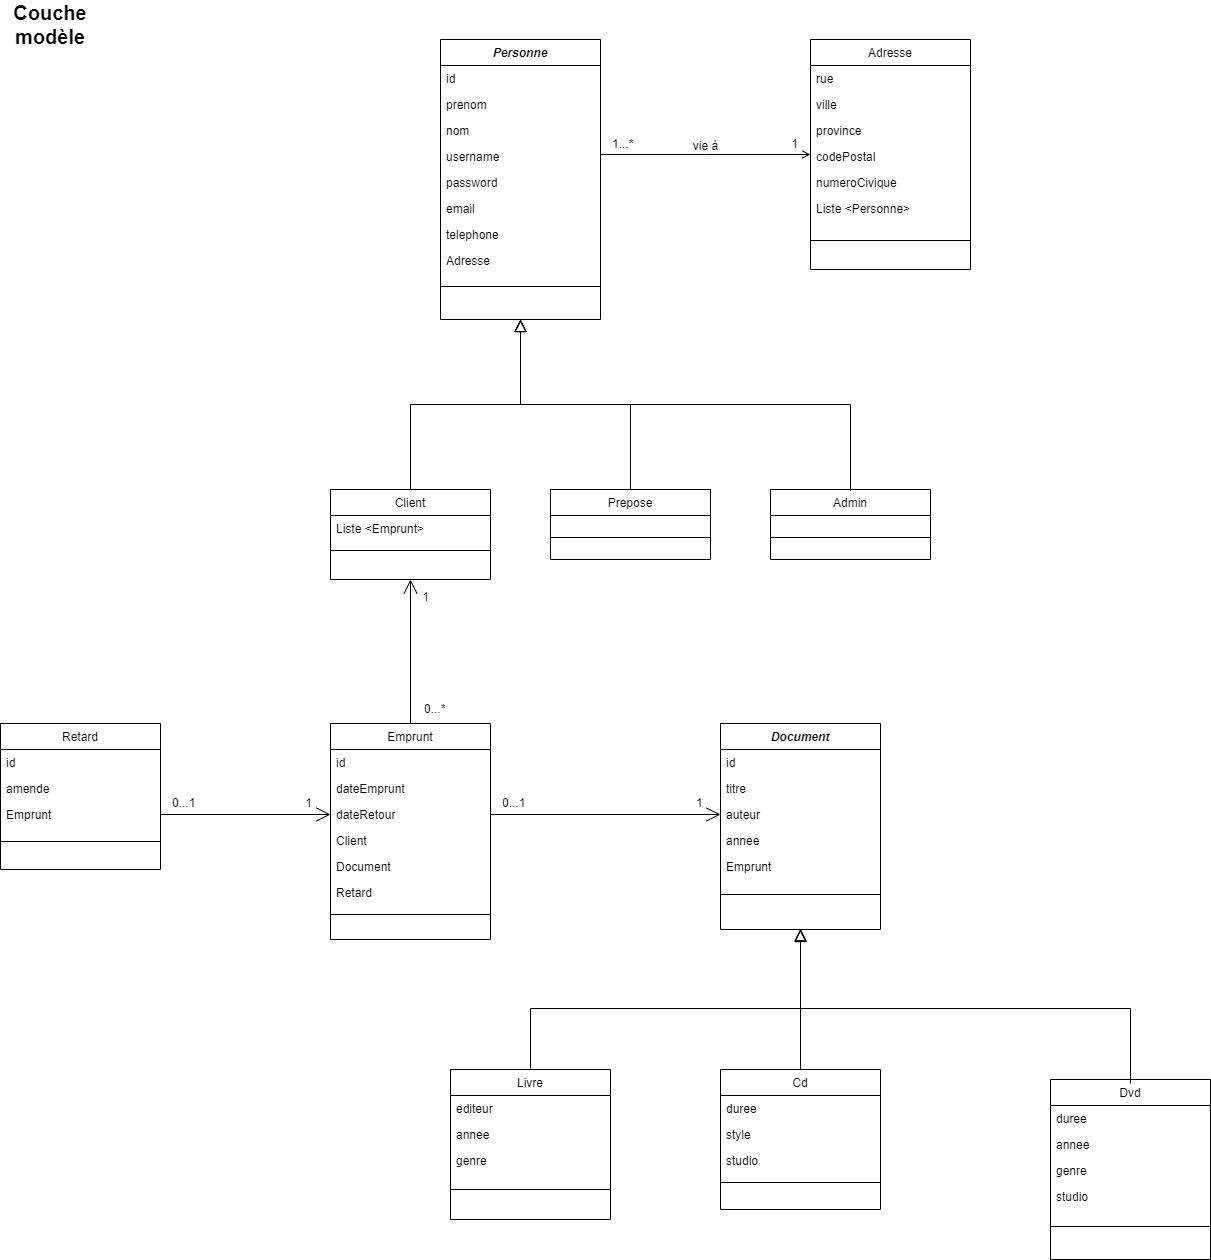
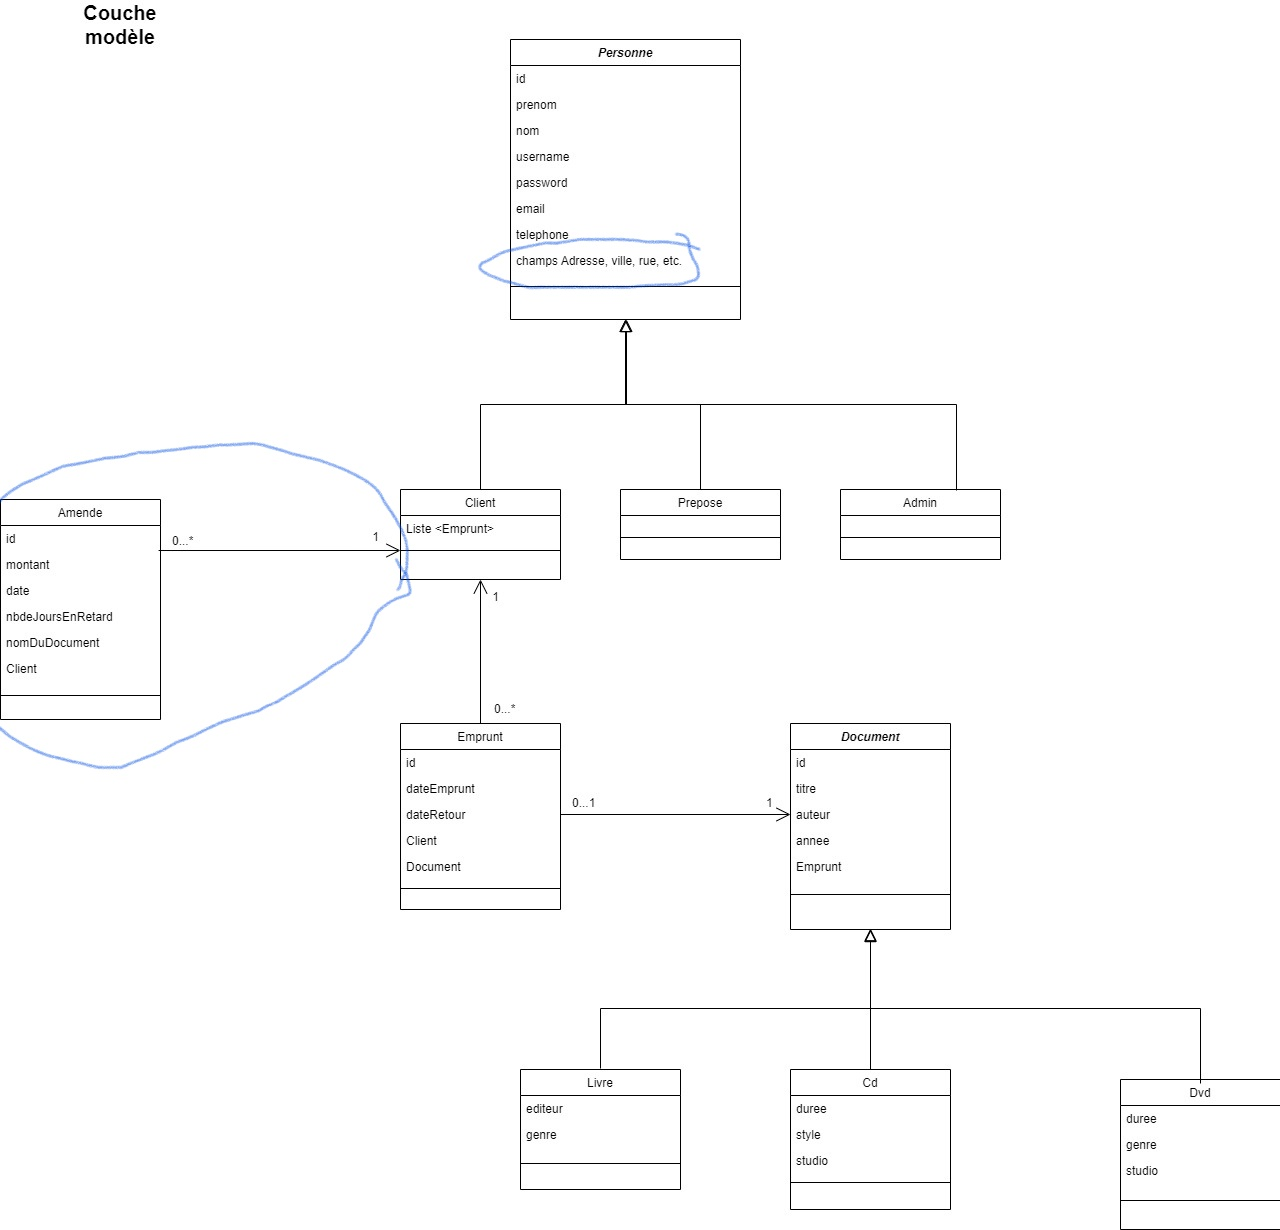
Changements UML et couche Model pour TP2

diff --git a/src/main/java/com/tp1/model/Personne.java b/src/main/java/com/tp1/model/Personne.java
@@ -8,13 +8,18 @@ public abstract class Personne {
     private String password;
     private String email;
     private String telephone;
-    private Adresse adresse;
+    private String rue;
+    private final String VILLE = "Javatown";
+    private final String PROVINCE = "QC";
+    private String codePostal;
+    private String numeroCivique;
 
     public Personne() {
 
     }
 
-    public Personne(int id, String prenom, String nom, String username, String password, String email, String telephone, Adresse adresse) {
+    public Personne(int id, String prenom, String nom, String username, String password, String email, String telephone,
+                    String rue, String codePostal, String numeroCivique) {
         this.id = id;
         this.prenom = prenom;
         this.nom = nom;
@@ -22,7 +27,9 @@ public abstract class Personne {
         this.password = password;
         this.email = email;
         this.telephone = telephone;
-        this.adresse = adresse;
+        this.rue = rue;
+        this.codePostal = codePostal;
+        this.numeroCivique = numeroCivique;
     }
 
     public int getId() {
@@ -81,12 +88,36 @@ public abstract class Personne {
         this.telephone = telephone;
     }
 
-    public Adresse getAdresse() {
-        return adresse;
+    public String getRue() {
+        return rue;
     }
 
-    public void setAdresse(Adresse adresse) {
-        this.adresse = adresse;
+    public void setRue(String rue) {
+        this.rue = rue;
+    }
+
+    public String getVILLE() {
+        return VILLE;
+    }
+
+    public String getPROVINCE() {
+        return PROVINCE;
+    }
+
+    public String getCodePostal() {
+        return codePostal;
+    }
+
+    public void setCodePostal(String codePostal) {
+        this.codePostal = codePostal;
+    }
+
+    public String getNumeroCivique() {
+        return numeroCivique;
+    }
+
+    public void setNumeroCivique(String numeroCivique) {
+        this.numeroCivique = numeroCivique;
     }
 
     @Override
@@ -99,7 +130,11 @@ public abstract class Personne {
                 ", password='" + password + '\'' +
                 ", email='" + email + '\'' +
                 ", telephone='" + telephone + '\'' +
-                ", adresse=" + adresse +
+                ", rue='" + rue + '\'' +
+                ", VILLE='" + VILLE + '\'' +
+                ", PROVINCE='" + PROVINCE + '\'' +
+                ", codePostal='" + codePostal + '\'' +
+                ", numeroCivique='" + numeroCivique + '\'' +
                 '}';
     }
 }

diff --git a/src/main/java/com/tp1/model/Amende.java b/src/main/java/com/tp1/model/Amende.java
@@ -1,0 +1,86 @@
+package com.tp1.model;
+
+import java.math.BigDecimal;
+import java.time.LocalDateTime;
+
+public class Amende {
+    private int id;
+    private BigDecimal montant;
+    private LocalDateTime dateRetard;
+    private int nbDeJoursEnRetard;
+    private String nomDuDocument;
+    private Client client;
+
+    public Amende() {
+
+    }
+
+    public Amende(int id, BigDecimal montant, LocalDateTime dateRetard, int nbDeJoursEnRetard, String nomDuDocument, Client client) {
+        this.id = id;
+        this.montant = montant;
+        this.dateRetard = dateRetard;
+        this.nbDeJoursEnRetard = nbDeJoursEnRetard;
+        this.nomDuDocument = nomDuDocument;
+        this.client = client;
+    }
+
+    public int getId() {
+        return id;
+    }
+
+    public void setId(int id) {
+        this.id = id;
+    }
+
+    public BigDecimal getMontant() {
+        return montant;
+    }
+
+    public void setMontant(BigDecimal montant) {
+        this.montant = montant;
+    }
+
+    public LocalDateTime getDateRetard() {
+        return dateRetard;
+    }
+
+    public void setDateRetard(LocalDateTime dateRetard) {
+        this.dateRetard = dateRetard;
+    }
+
+    public int getNbDeJoursEnRetard() {
+        return nbDeJoursEnRetard;
+    }
+
+    public void setNbDeJoursEnRetard(int nbDeJoursEnRetard) {
+        this.nbDeJoursEnRetard = nbDeJoursEnRetard;
+    }
+
+    public String getNomDuDocument() {
+        return nomDuDocument;
+    }
+
+    public void setNomDuDocument(String nomDuDocument) {
+        this.nomDuDocument = nomDuDocument;
+    }
+
+    public Client getClient() {
+        return client;
+    }
+
+    public void setClient(Client client) {
+        this.client = client;
+    }
+
+    @Override
+    public String toString() {
+        return "Amende{" +
+                "id=" + id +
+                ", montant=" + montant +
+                ", dateRetard=" + dateRetard +
+                ", nbDeJoursEnRetard=" + nbDeJoursEnRetard +
+                ", nomDuDocument='" + nomDuDocument + '\'' +
+                ", client=" + client +
+                '}';
+    }
+}

diff --git a/src/main/java/com/tp1/model/Emprunt.java b/src/main/java/com/tp1/model/Emprunt.java
@@ -1,26 +1,25 @@
 package com.tp1.model;
 
+import java.time.LocalDateTime;
 import java.util.Date;
 
 public class Emprunt {
     private int id;
-    private Date dateEmprunt;
-    private Date dateRetour;
+    private LocalDateTime dateEmprunt;
+    private LocalDateTime dateRetour;
     private Client client;
     private Document document;
-    private Retard retard;
 
     public Emprunt() {
 
     }
 
-    public Emprunt(int id, Date dateEmprunt, Date dateRetour, Client client, Document document, Retard retard) {
+    public Emprunt(int id, LocalDateTime dateEmprunt, LocalDateTime dateRetour, Client client, Document document) {
         this.id = id;
         this.dateEmprunt = dateEmprunt;
         this.dateRetour = dateRetour;
         this.client = client;
         this.document = document;
-        this.retard = retard;
     }
 
     public int getId() {
@@ -31,19 +30,19 @@ public class Emprunt {
         this.id = id;
     }
 
-    public Date getDateEmprunt() {
+    public LocalDateTime getDateEmprunt() {
         return dateEmprunt;
     }
 
-    public void setDateEmprunt(Date dateEmprunt) {
+    public void setDateEmprunt(LocalDateTime dateEmprunt) {
         this.dateEmprunt = dateEmprunt;
     }
 
-    public Date getDateRetour() {
+    public LocalDateTime getDateRetour() {
         return dateRetour;
     }
 
-    public void setDateRetour(Date dateRetour) {
+    public void setDateRetour(LocalDateTime dateRetour) {
         this.dateRetour = dateRetour;
     }
 
@@ -63,14 +62,6 @@ public class Emprunt {
         this.document = document;
     }
 
-    public Retard getRetard() {
-        return retard;
-    }
-
-    public void setRetard(Retard retard) {
-        this.retard = retard;
-    }
-
     @Override
     public String toString() {
         return "Emprunt{" +
@@ -79,7 +70,6 @@ public class Emprunt {
                 ", dateRetour=" + dateRetour +
                 ", client=" + client +
                 ", document=" + document +
-                ", retard=" + retard +
                 '}';
     }
 }
